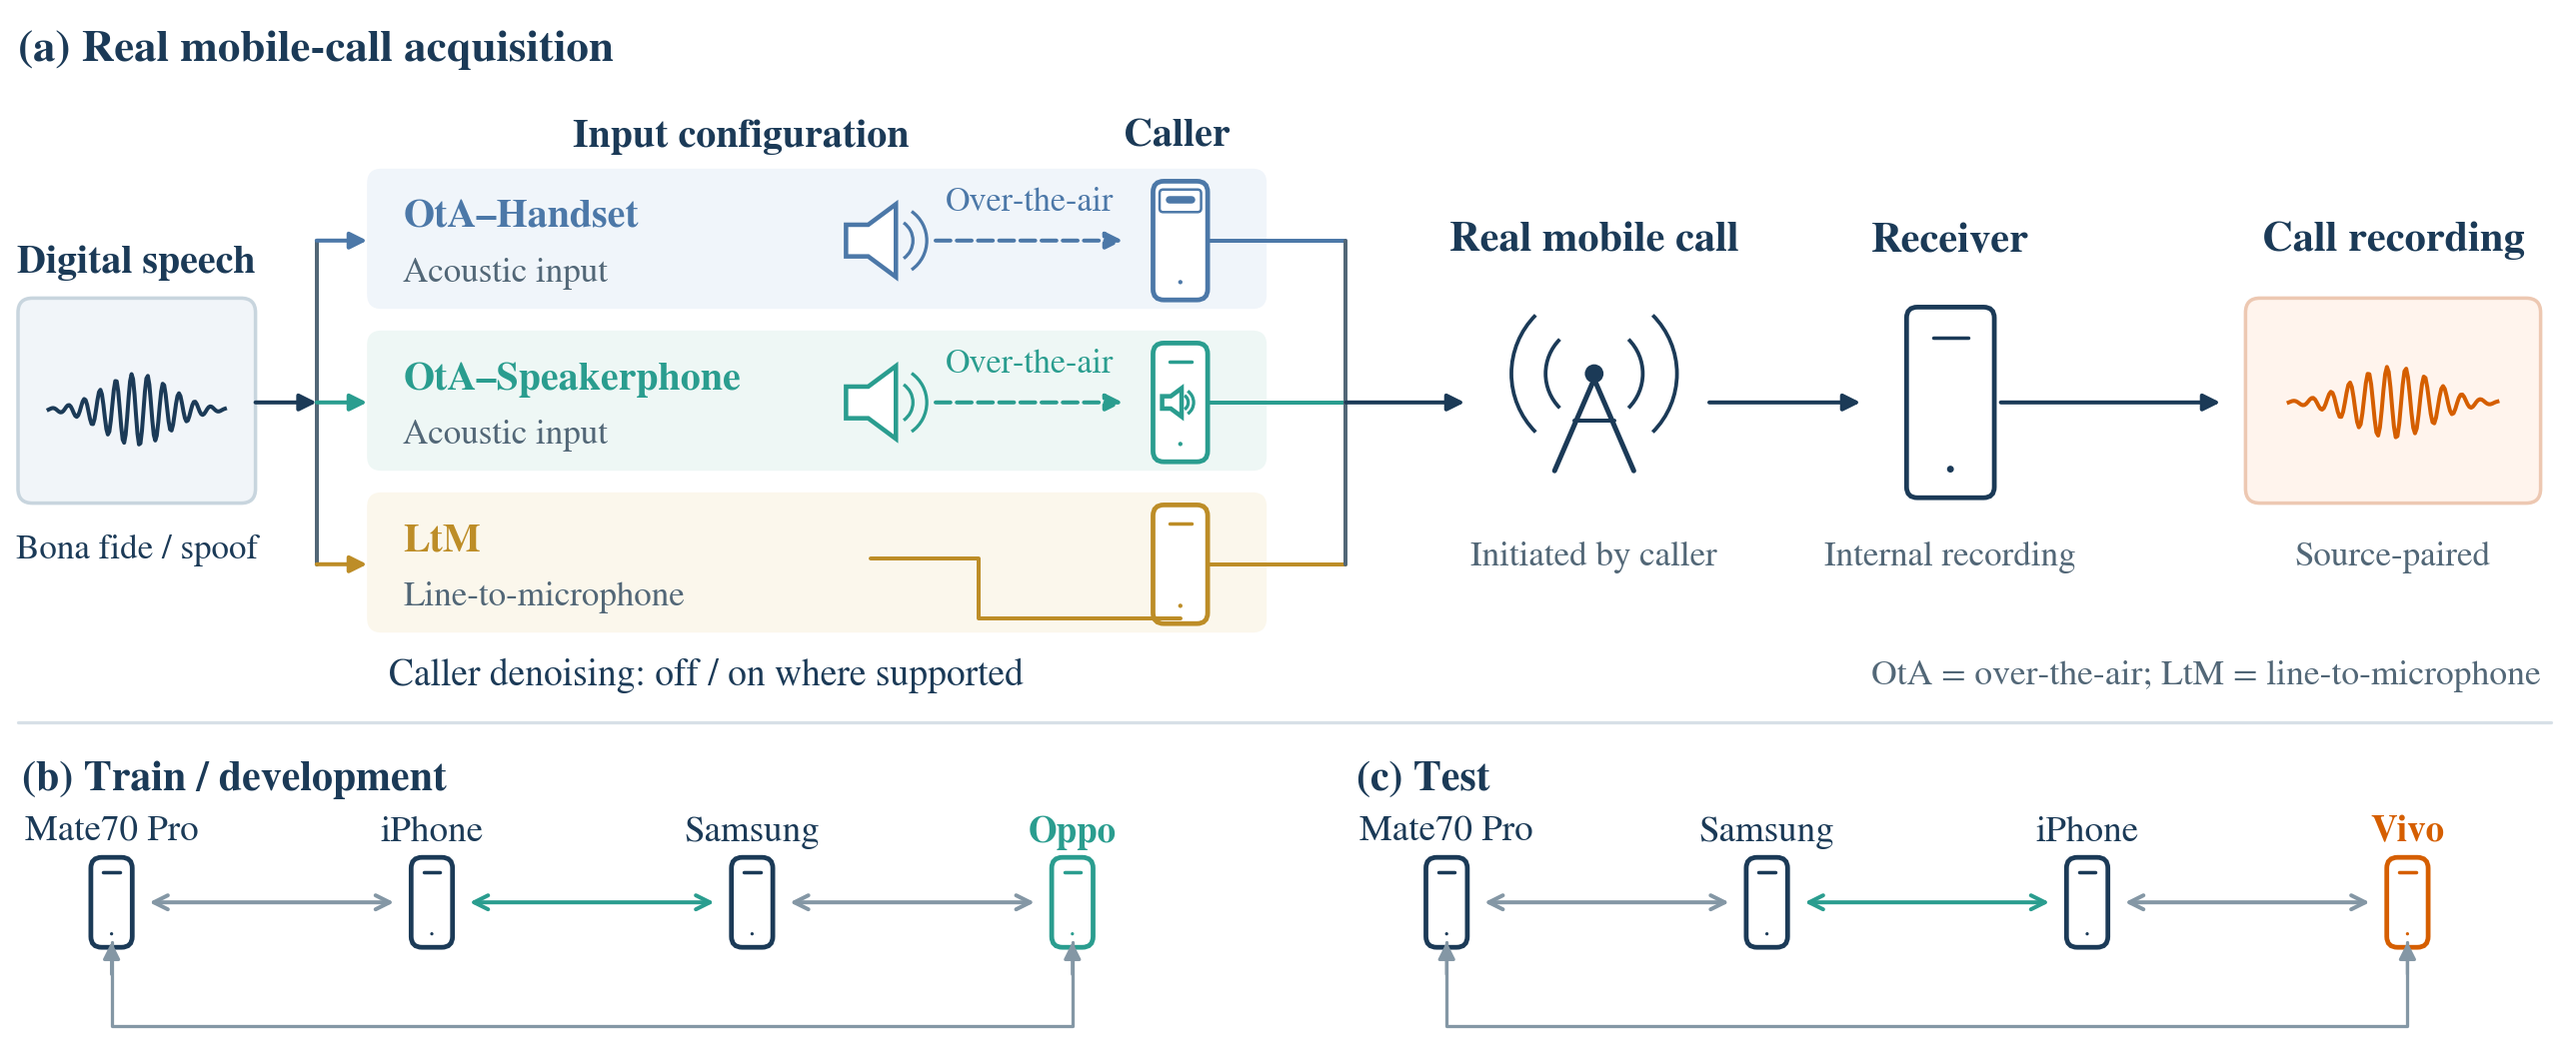
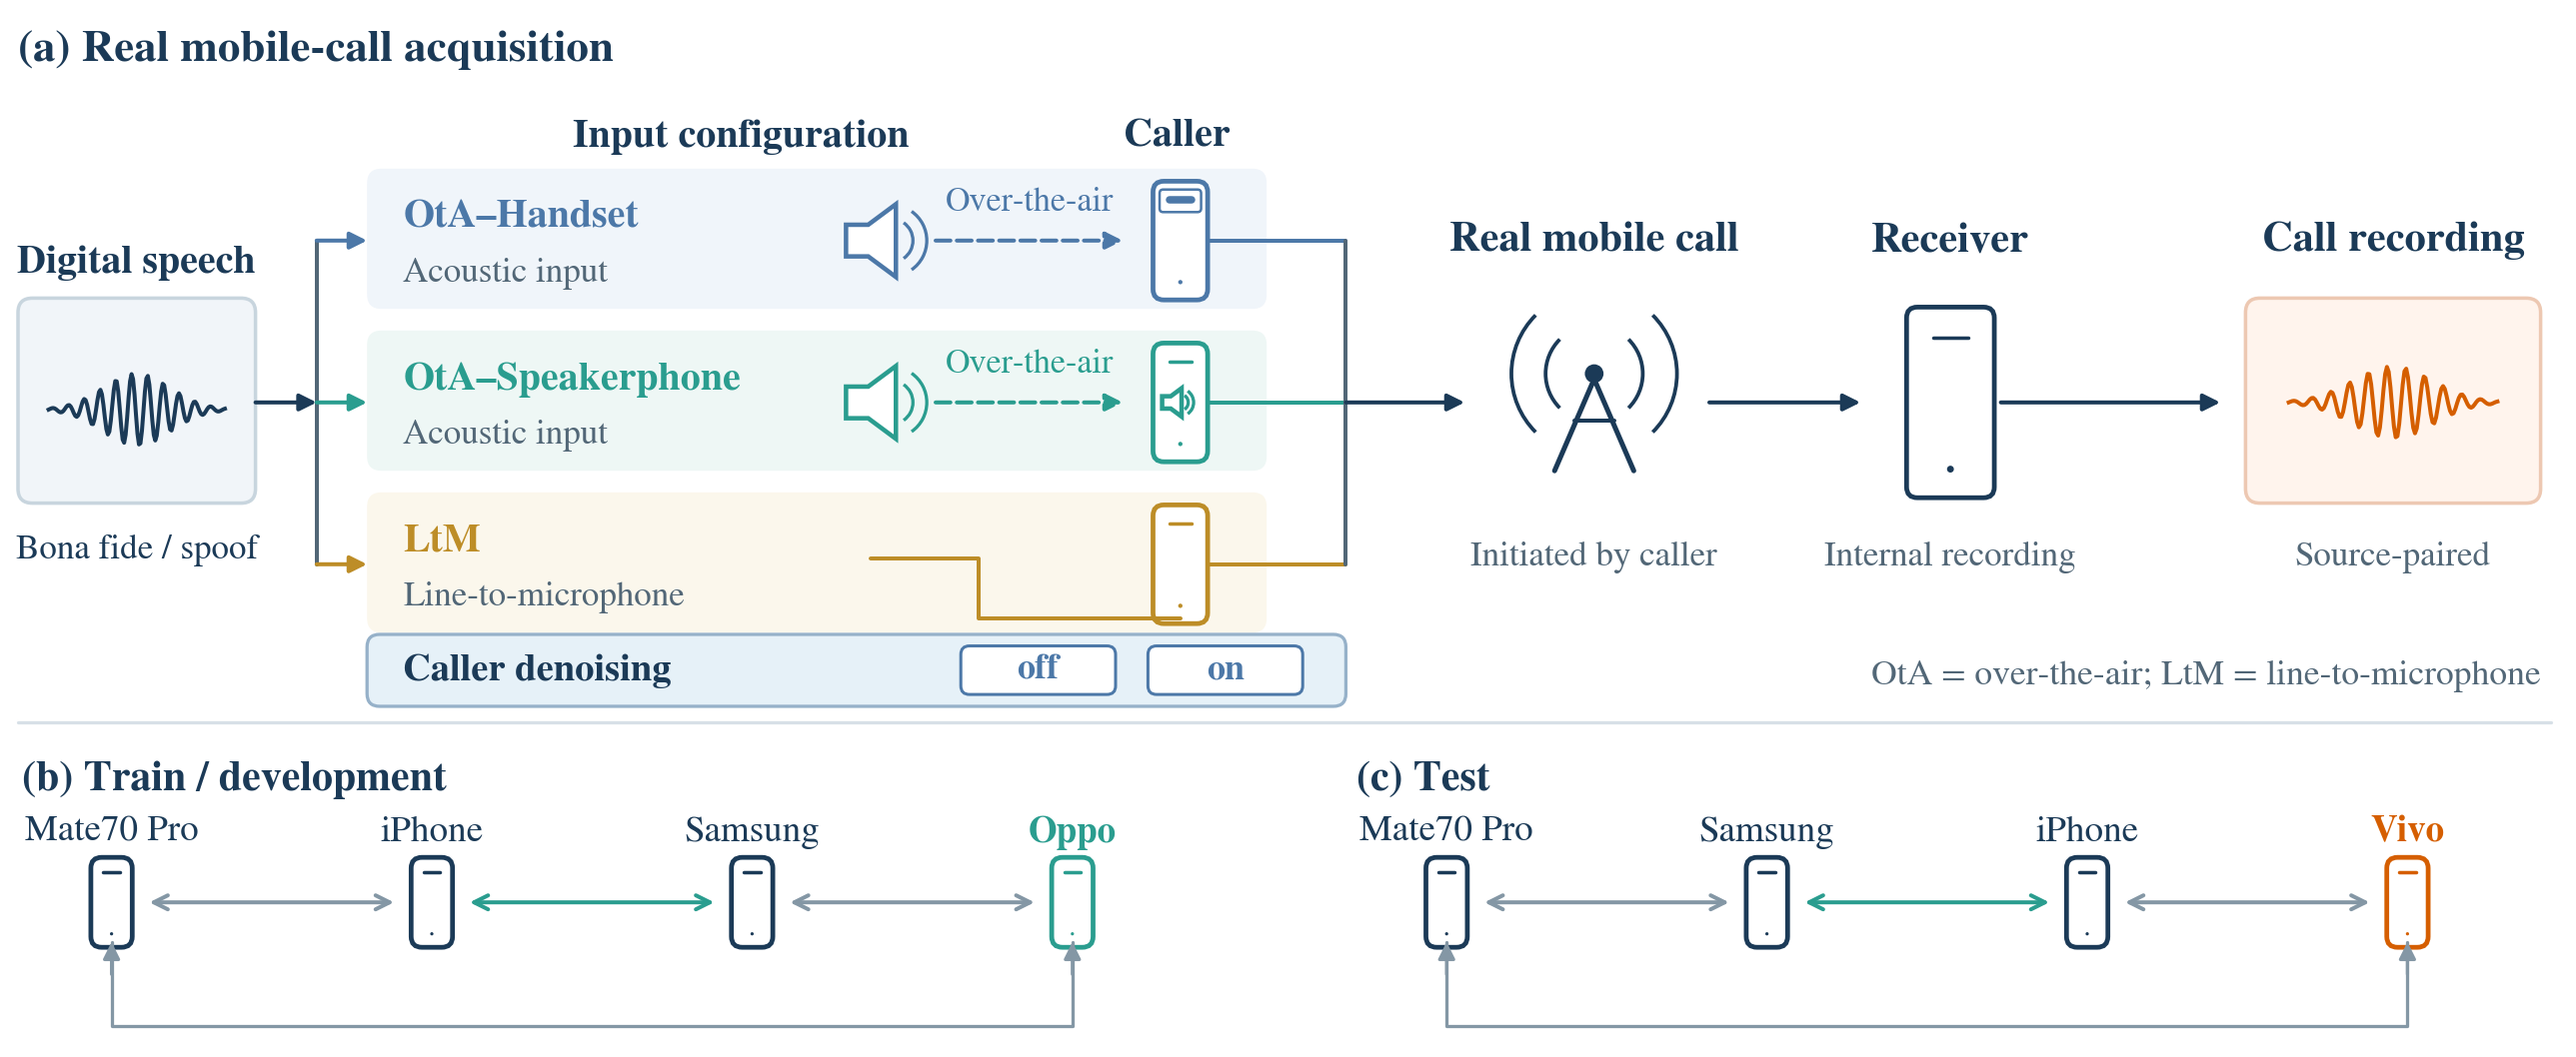
Align RealComm overview and findings with the revised manuscript

Changed region(s): [[0.1242, 0.5926, 0.5277, 0.6862]]

diff --git a/README.md b/README.md
@@ -30,10 +30,10 @@ Call conditions cover **OtA–Handset**, **OtA–Speakerphone**, and **LtM** (li
 
 Complete RealComm evaluation results will be published and maintained on [SpoofRadar](https://tefficlabs.com/spoofradar), our unified leaderboard for speech deepfake detection. This README summarizes the manuscript's fixed results; the platform will provide the full evaluation tables and subsequent updates. Model/checkpoint versions, evaluation protocols, and training settings will distinguish zero-shot benchmark entries from adaptation results.
 
-- **Domain shift:** across six existing detectors, real-call EER rises by 11.73–37.95 percentage points relative to digital speech. Acoustic injection is consistently harder than wired injection.
+- **Domain shift:** real-call EER rises by 30.91–37.95 percentage points relative to digital speech for the detectors in the main comparison. Acoustic injection is consistently harder than wired injection.
 - **RealComm-Aug:** staged waveform augmentation models acoustic propagation, device processing, and call transmission. Augmentation alone lowers call EER for all three adaptation models.
 - **Combined adaptation:** simulated augmentation and RealCommTrain together yield the lowest pooled call EER for each of the three models.
-- **Signal analysis:** speech quality and spectral changes help characterize the channel, but better speech quality does not consistently imply better detection; attenuation at high frequencies alone does not explain condition difficulty.
+- **Signal analysis:** quality deterioration is associated with larger EER increases across recording conditions for the evaluated detectors. High-frequency energy loss alone does not explain condition difficulty.
 
 ### Zero-shot benchmark
 
@@ -45,8 +45,11 @@ EER (%) on Digital/test and RealCommBench, lower is better. The same source utte
 | Whisper | 15.71 | 47.88 | +32.17 |
 | AASIST | 7.50 | 40.19 | +32.69 |
 | Teffic-Audio | 0.00 | 37.95 | +37.95 |
-| XLSR-SLS | 38.57 | 50.31 | +11.73 |
 | DF Arena | 7.86 | 38.77 | +30.91 |
+
+The initial XLSR-SLS evaluation (38.57% digital / 50.31% call EER) is retained in the manuscript’s protocol discussion. Its weak digital baseline limits interpretation of the additional channel effect, so it is not included in the main comparisons.
+
+The manuscript also compares input configuration, denoising, language, and generation system in a unified figure.
 
 ### Adaptation results
 
@@ -61,6 +64,8 @@ Pooled RealCommBench EER (%), lower is better. F: frozen baseline; A: simulated 
 These are the manuscript's matched adaptation comparisons. Its separate zero-shot table reports Teffic-Audio at 37.95% under the original inference precision.
 
 T and A+T use RealCommTrain, which is not part of this release. The benchmark package supports evaluating detectors, but does not by itself enable reproduction of those adaptation training runs.
+
+Augmentation alone also improves ASVspoof 2021 LA EER for all three adaptation models. External-test improvements are not uniform: A+T raises In-the-Wild EER by 0.38, 0.78, and 0.85 percentage points for WavLM-L, AASIST, and Teffic-Audio. Figure 8 of the manuscript reports public-test changes on a shared scale.
 
 ## RealComm-Aug
 
